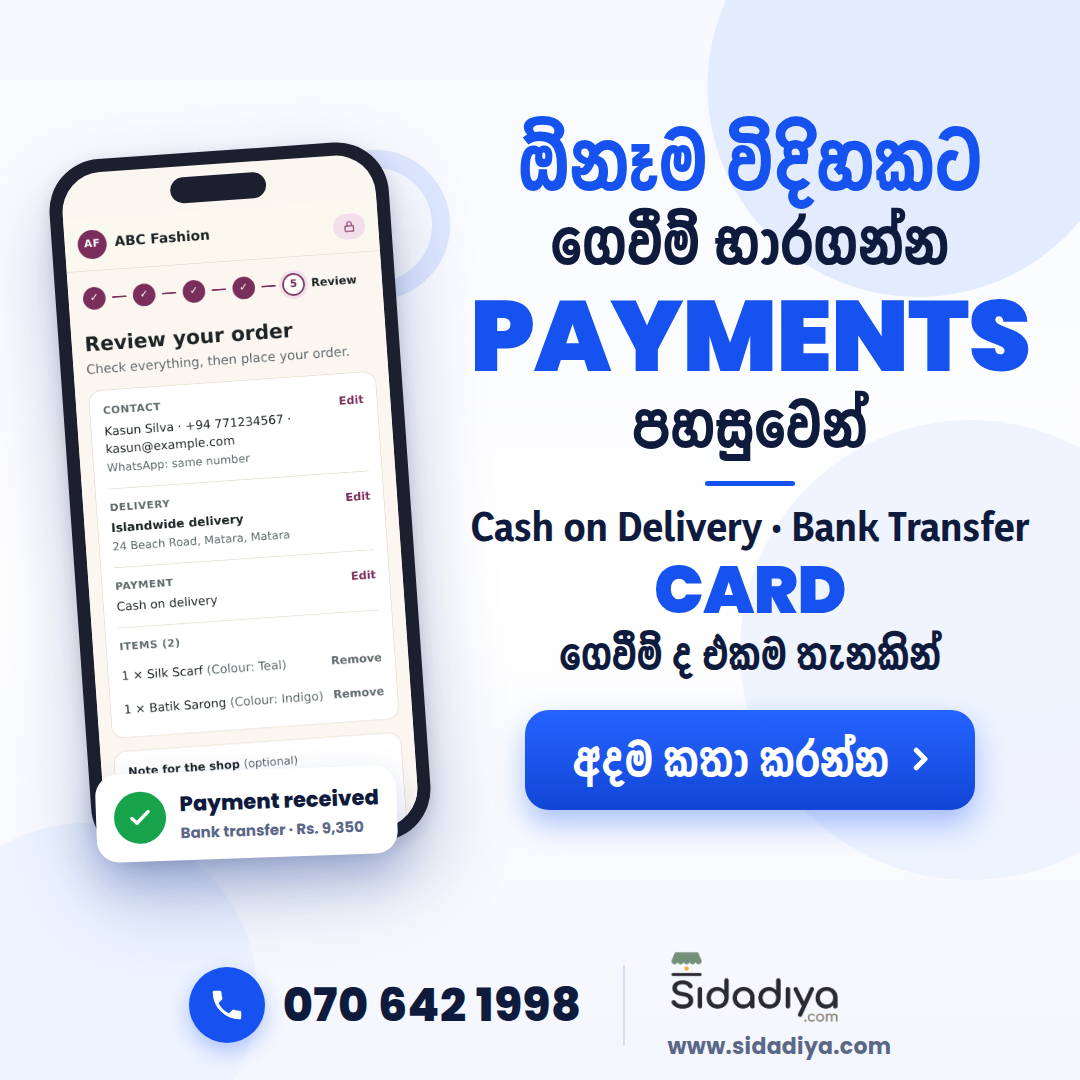
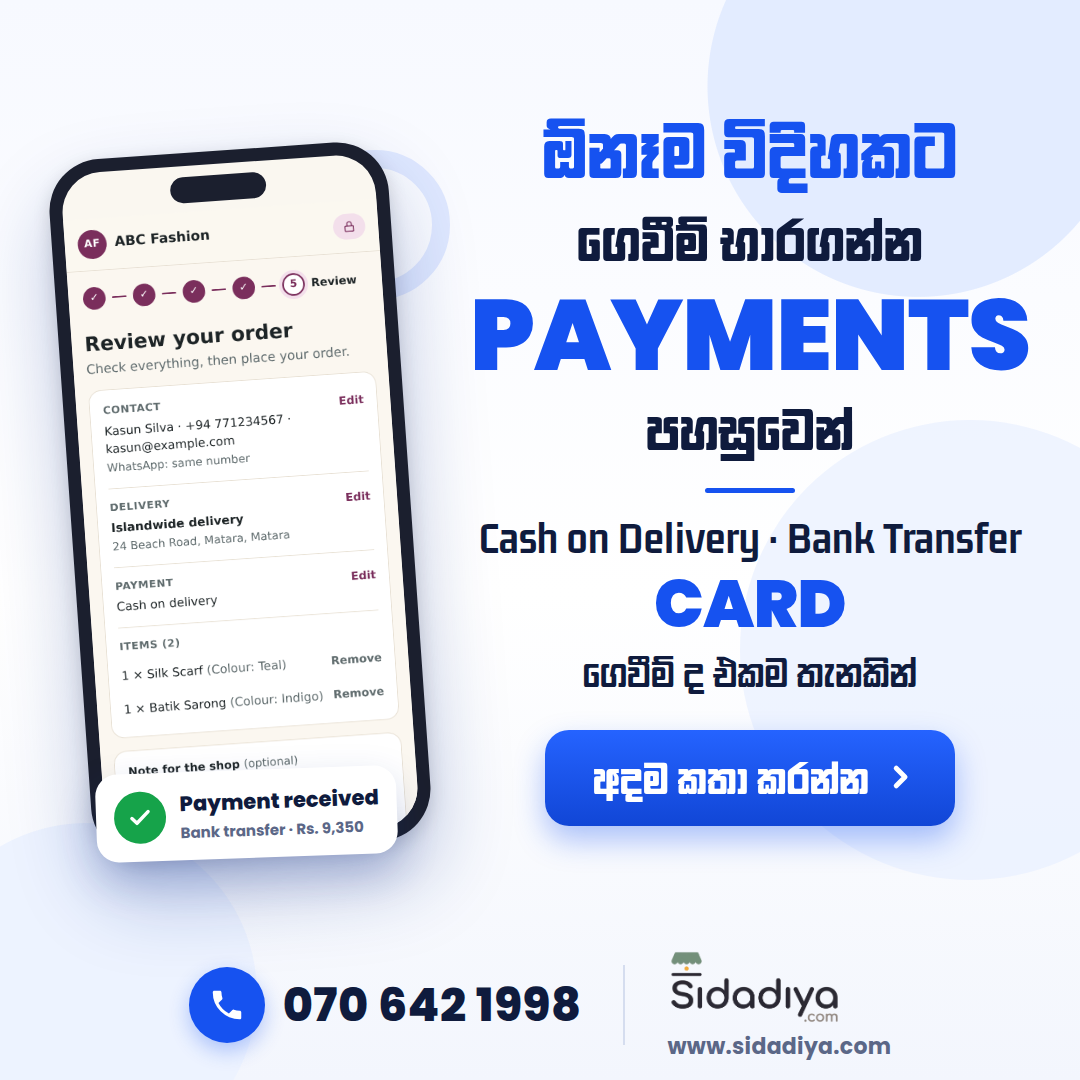
Marketing: Sinhala posts re-set in Gemunu Libre
Claude-Session: https://claude.ai/code/session_018s5NPNuFg5z86sJpRRsUaS

diff --git a/docs/facebook-ads/sinhala/CAPTIONS.md b/docs/facebook-ads/sinhala/CAPTIONS.md
@@ -1,6 +1,6 @@
 # Sidadiya: 5 Sinhala posts (1080 x 1080)
 
-Font: Yaldevi (Sinhala headings and text) and Poppins (English words), both free for commercial use (SIL Open Font License).
+Font: Gemunu Libre (Sinhala headings and text) and Poppins (English words), both free for commercial use (SIL Open Font License).
 Images: `post-1-online-shop.png` to `post-5-free-trial.png`. Each has the phone number 070 642 1998, the Sidadiya logo and www.sidadiya.com.
 Please have a native speaker read the Sinhala once before boosting.
 
